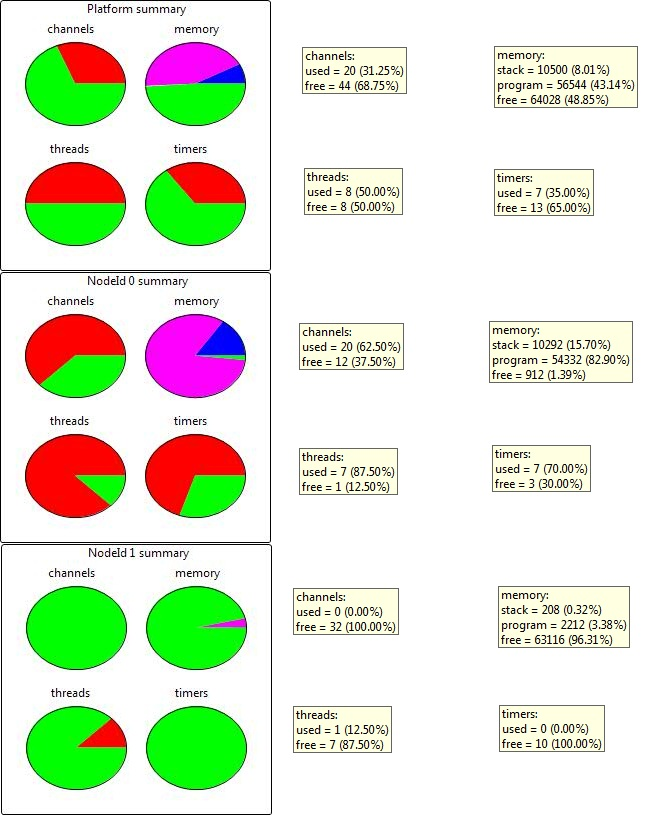
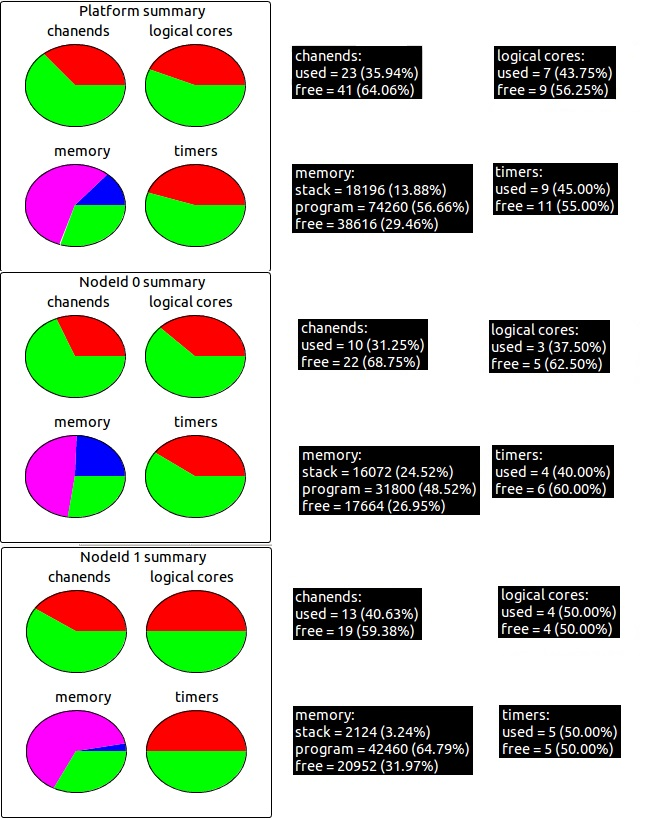
design doc review comments incorporated

diff --git a/doc/programming_guide.rst b/doc/programming_guide.rst
@@ -4,8 +4,10 @@ Programming guide
 Getting started
 +++++++++++++++
 
-Installation
-------------
+Installation of xTIMEcomposer Tools Suite
+-----------------------------------------
+
+The Serial to Ethernet application requires xTIMEcomposer version 13.0.0 or greater. It can be downloaded at the following URL http://www.xmos.com/support/xtools
 
 The following components are required to build the *Serial to Ethernet application*:
     * sw_serial_to_ethernet: git://github.com/xcore/sw_serial_to_ethernet
@@ -28,7 +30,7 @@ To install the software, open the xTIMEcomposer (v13.0.0 or later) and follow th
 
 #. Open the *Edit* perspective (Window -> Open Perspective -> XMOS Edit).
 
-#. Access the Import option either by right clicking in the project explorer window or through File ->Import menu
+#. Access the Import option either by right clicking the project in the project explorer window or through File ->Import menu
 
 #. Click *Import* option in the *Project Explorer* window (Import -> General -> Existing Projects into Workspace and click Next).
 
@@ -65,6 +67,10 @@ To flash the web pages and device configuration using xTIMEcomposer studio:
 #. Click on *Apply* and then *Flash* to the XMOS device.
 
 #. Check the *Console* window to verify flashing progress.
+
+.. figure:: images/flashing.png
+
+   Flashing the web pages
 
 Building from command line tool
 ~~~~~~~~~~~~~~~~~~~~~~~~~~~~~~~
@@ -185,7 +191,7 @@ Webserver
 
 The webserver handles all HTTP requests from the web clients. A web client may request to change UART settings, save current settings, or apply the previously saved UART seetings etc. Webserver identifies these requests, validates them and services those requests. It calls appropriate UART handler api's to retrieve and set channel settings. For example, for a 'Set' request from the web page, the webserver handler utilizes website component in order to parse the form data from web page, the required UART parameters are extracted and the UART_Handler's uart_set_config api is called to set the new UART configuration.
 
-The Webserver interface utilises sc_website component to implement web server functionality. Refer to the Programming Guide section within the ``SliceKit GPIO Example Applications`` documentation linked from the front page documentation of ``sw_gpio_examples`` repository (git://github.com/xcore/sw_gpio_examples.git). This documentation contains more information on how to utilize the ``Embedded Webserver Function Library`` component in customizing web server applications.
+The Webserver interface utilises *sc_website* component to implement web server functionality. Refer to the `Quickstart Guide` within `Documentation` or `Developer Column` of the ``Slicekit GPIO and Ethernet Combo Demo`` example in xSOFTip browser. This documentation contains more information on how to utilize the ``Embedded Webserver Function Library`` component in customizing web server applications.
 
 Flash interface
 ---------------

diff --git a/doc/hardware_platform.rst b/doc/hardware_platform.rst
@@ -4,30 +4,24 @@ Hardware platforms
 Hardware requirements
 ---------------------
 
-This application runs on an L1 device on the sliceKIT core board. Following hardware is required for running this application:
+This application runs on an L2 device on the sliceKIT core board. Following hardware is required for running this application:
    * xCORE General Purpose (L-series) sliceKIT core board 1V2 (XP-SKC-L2)
    * Ethernet sliceCARD 1V1 (XA-SK-E100)
    * Multi UART sliceCARD (XA-SK-UART-8)
    * xTAG-2 debug adapter and sliceKIT connector (xTAG-2 and XA-SK-XTAG2)
    * Ethernet cable
-   * Power supply 5V
+   * Power supply 12V
 
 Hardware setup
 --------------
-MultiUART component requires 8-bit ports for both transmit and receive ports. The current version of the *Serial to Ethernet* application runs on a single tile device. The sliceCARDs should be connected to the sliceKIT core board in the following manner:
+MultiUART component requires 8-bit ports for both transmit and receive ports. The current version of the *Serial to Ethernet* application runs on a two tile device. The sliceCARDs should be connected to the sliceKIT core board in the following manner:
 
 ===================== ======================== =======================
 **sliceCARD**         **sliceKIT Connector**   **sliceKIT - Jumper**
 ===================== ======================== =======================
 Ethernet              Triangle                 J5
-MultiUART             Star                     J4
+MultiUART             Square                   J8
 ===================== ======================== =======================
-
-.. figure:: images/hardware_setup.jpg
-    :align: center
-    :width: 50%
-    
-    Hardware setup
     
 The Multi UART sliceCARD has two types of voltage levels of communications.
     * CMOS TTL
@@ -47,3 +41,9 @@ By default, Multi UART sliceCARD uses the RS-232 levels. In order to use the CMO
 6                19                    20
 7                23                    24
 ================ ===================== =====================
+
+.. figure:: images/hardware_setup.png
+    :align: center
+    :width: 50%
+    
+    Hardware setup

diff --git a/doc/system_description.rst b/doc/system_description.rst
@@ -10,7 +10,7 @@ Software architecture
     
     Core usage
     
-In order to achieve the desired data bridging, this application essentially maps each of the configured UART to a telnet socket and maintains application buffers (FIFOs) for each of such mapping. Whenever there is any UART data available, the `UART Handler` core fills the appropriate UART buffer and notifies `TCP Handler` logical core to consume this data. Similarly whenever there is any data from Ethernet packets, XTCP server avilable in `ETH and TCP/IP` logical core notifies `TCP Handler` logical core, which acts as a TCP client about data availability. `TCP Handler` stores this data into respective application buffers. This data is then consumed by `UART handler` and then pushed to `UART Tx ports` by `UART TX server` logical core.
+In order to achieve the desired data bridging, this application essentially maps each of the configured UART to a telnet socket and maintains application buffers (FIFOs) for each of such mapping. Whenever there is any UART data available, the `UART Handler` core fills the appropriate UART Rx buffer and notifies `TCP Handler` logical core to consume this data. Similarly whenever there is any Ethernet data from `Ethernet MAC/MII server`, `XTCP Server` logical core notifies `TCP Handler` core, which acts as a TCP client about data availability. `TCP Handler` stores this data into respective application buffers. This data is then consumed by `UART handler` and then pushed to `UART Tx ports` by `UART TX server` logical core.
 
 Cores
 ~~~~~
@@ -67,6 +67,14 @@ Software components used
 
 Resource usage
 --------------
+
+The overall platform usage and individual node usage shown in :ref:`fig_resource_usage`. User can get this information on the `Binary` window or by a ``double click`` of the binary file present on the `Binaries` folder in `Project Explorer`, after compiling the application using `xTIMEcomposer`.
+
+.. figure:: images/binary_window.png
+   
+   Binary window on xTIMEcomposer
+
+.. _fig_resource_usage:
 
 .. figure:: images/resource_usage.jpg
     

diff --git a/doc/overview.rst b/doc/overview.rst
@@ -13,16 +13,17 @@ Feature list
 
 Supported
 ~~~~~~~~~
-    * Design fits in a single tile xCORE device
     * 10/100 Mbit Ethernet port
     * Supports up to 8 serial ports at the following baud rates: 115200, 57600, 38400, 
       28800, 19200, 14400, 9600, 7200, 4800, 2400, 1200, 600, 300, 150
+    * Supports various parity mode, character length, start/stop bit
     * Device discovery and device IP configuration management using UDP
     * Web page for UART configuration
-    * Telnet server functionality; supports data transfer via telnet socket for each UART
+    * Telnet server functionality: supports data transfer via telnet socket for each UART
     * Flash support for IP and UART configuration, web page storage and retrieval
     * Telnet mode UART configuration support
     * CMOS/TTL level and RS232 level communication for UARTs
+    * All the 8 UARTs can be configured in different configurations
 
 Not supported
 ~~~~~~~~~~~~~
